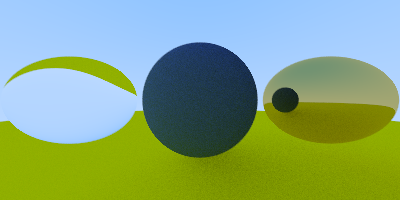
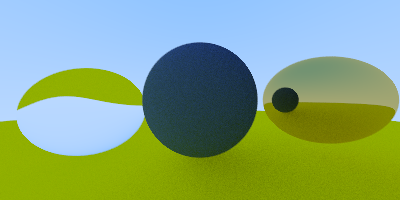
adjust sphere

diff --git a/src/main.rs b/src/main.rs
@@ -36,7 +36,7 @@ fn world<'a>() -> Vec<Box<dyn Surface>> {
     )));
 
     world.push(Box::new(Sphere::new(
-        Vec3::new(-1.1, -0.05, -1.0),
+        Vec3::new(-1.1, -0.1, -1.0),
         0.4,
         refractive,
     )));
